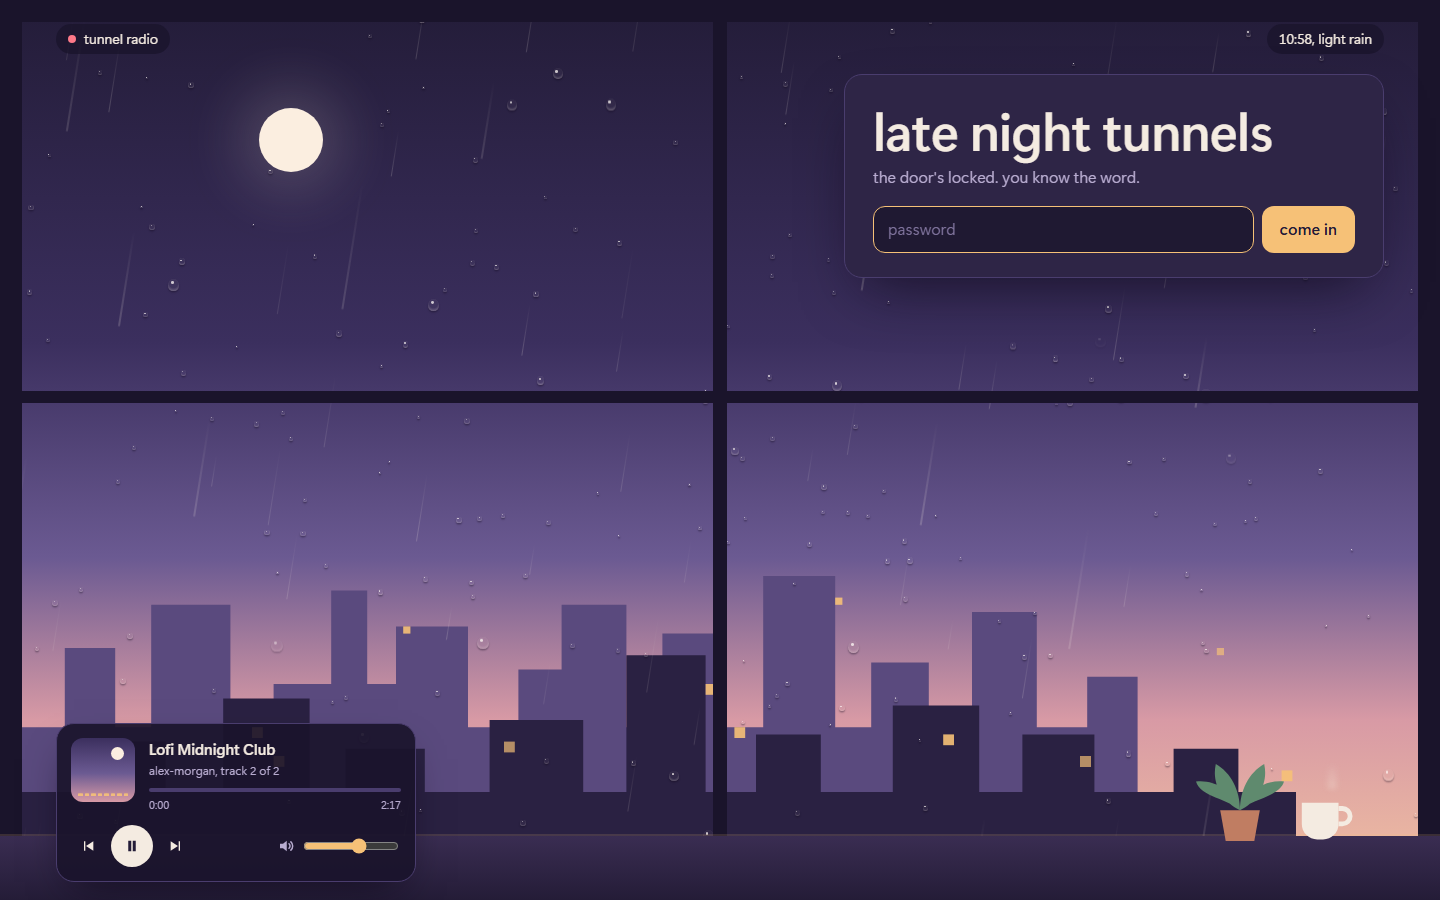
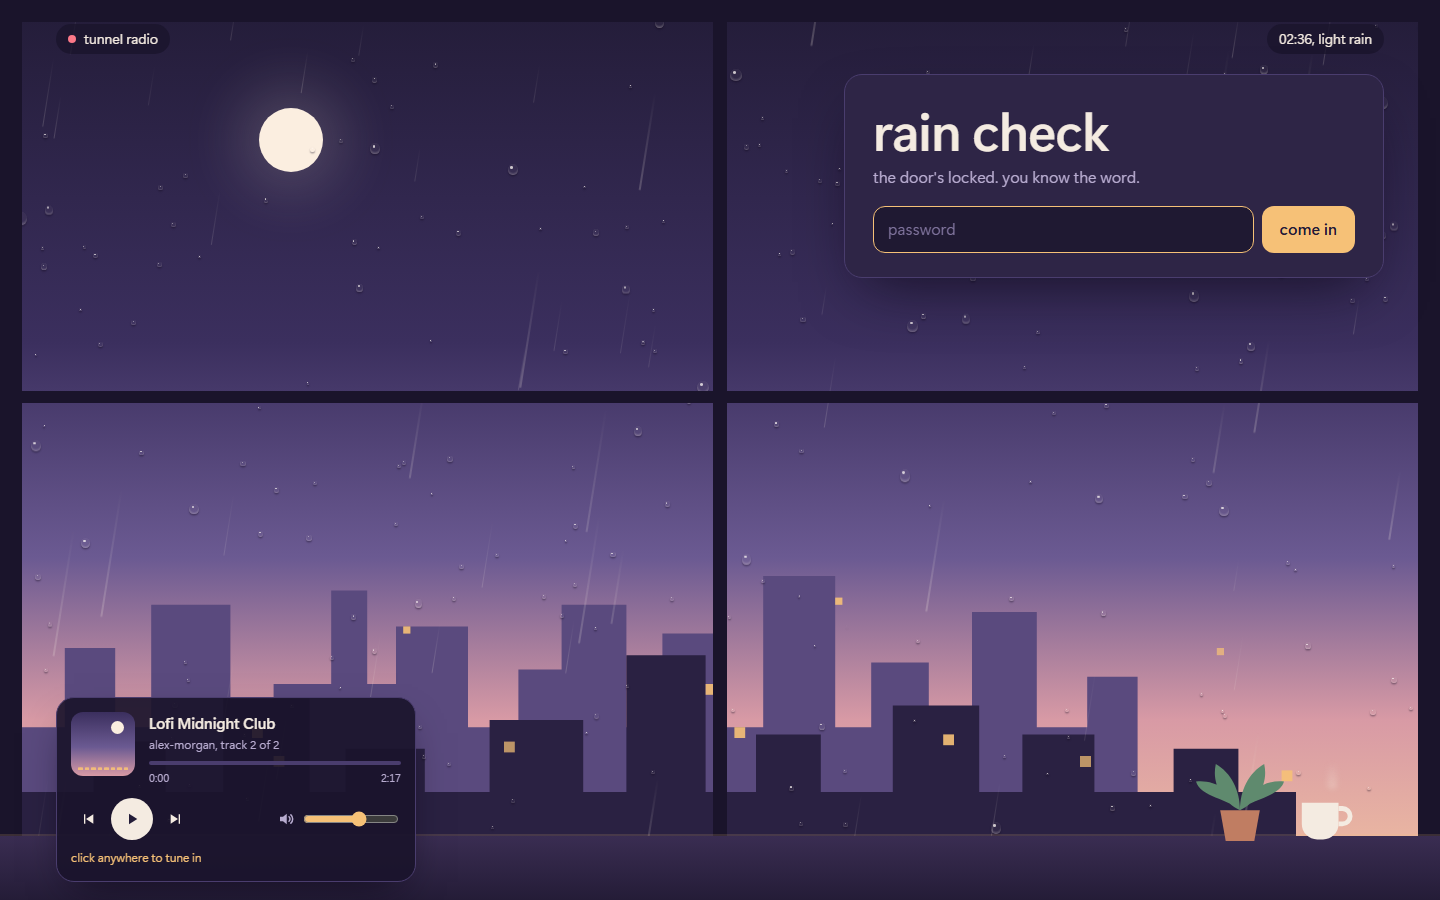
Rename the page from "late night tunnels" to "rain check"
Heading on the page and the README title; screenshots retaken.

Changed region(s): [[0.0312, 0.7778, 0.3125, 0.9644], [0.5938, 0.1244, 0.875, 0.1867], [0.875, 0.0311, 0.9062, 0.0622]]

diff --git a/index.html b/index.html
@@ -49,7 +49,7 @@
     </header>
 
     <main class="tisch">
-      <h1>late night tunnels</h1>
+      <h1>rain check</h1>
       <p id="laden" class="leise"><span id="laden-text">tuning in…</span></p>
 
       <div id="setup" hidden>

diff --git a/README.md b/README.md
@@ -1,4 +1,4 @@
-# Late Night Tunnels
+# Rain Check
 
 A small web page that creates WireGuard connections on a MikroTik router with one click and downloads the finished `.conf` file. It is styled as a rainy lofi-stream window with a mini music player.
 
